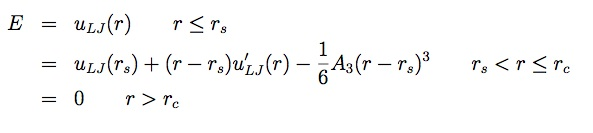
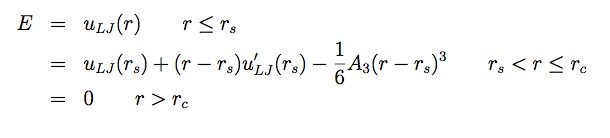
Added equation for lj_cubic
git-svn-id: svn://svn.icms.temple.edu/lammps-ro/trunk@6859 f3b2605a-c512-4ea7-a41b-209d697bcdaa

diff --git a/Eqs/pair_lj_cubic.tex b/Eqs/pair_lj_cubic.tex
@@ -4,7 +4,7 @@
 
 \begin{eqnarray*}
  E &=& u_{LJ}(r) \qquad r \leq r_s \\
-    &=&  u_{LJ}(r_s) + (r-r_s) u'_{LJ}(r) - \frac{1}{6} A_3 (r-r_s)^3 \qquad r_s < r \leq r_c \\
+    &=&  u_{LJ}(r_s) + (r-r_s) u'_{LJ}(r_s) - \frac{1}{6} A_3 (r-r_s)^3 \qquad r_s < r \leq r_c \\
     &=& 0 \qquad r > r_c 
 \end{eqnarray*}                           
 
